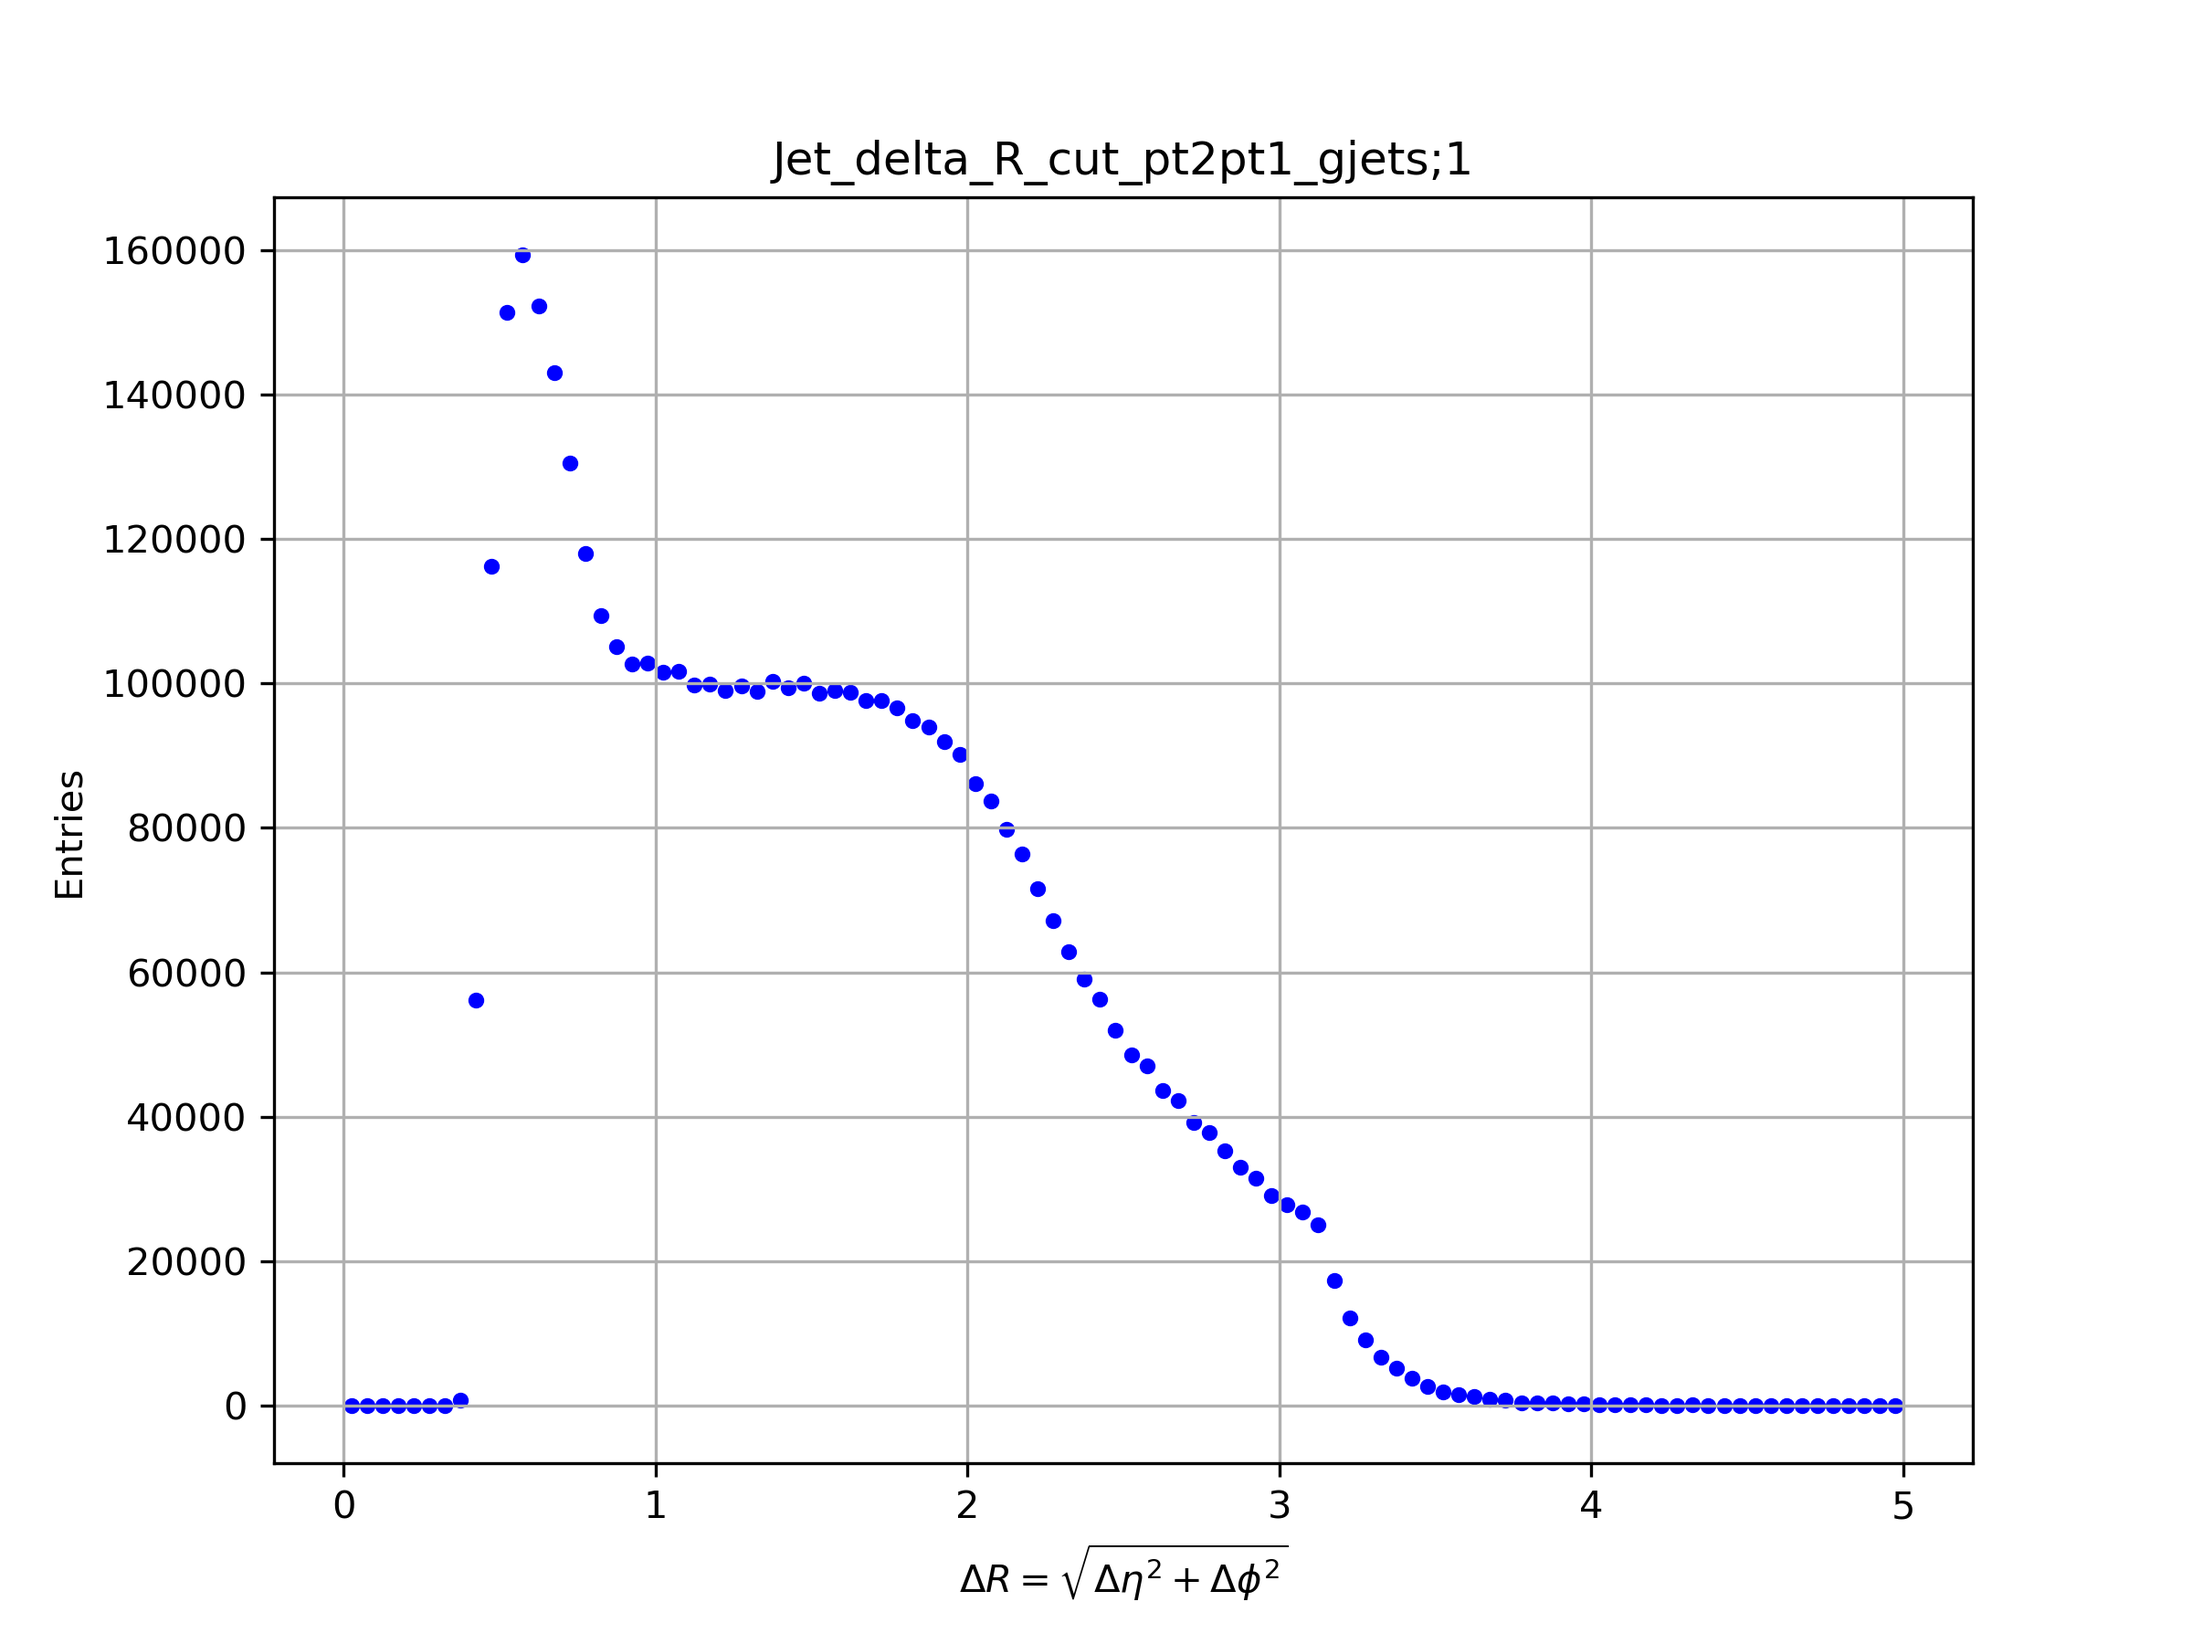
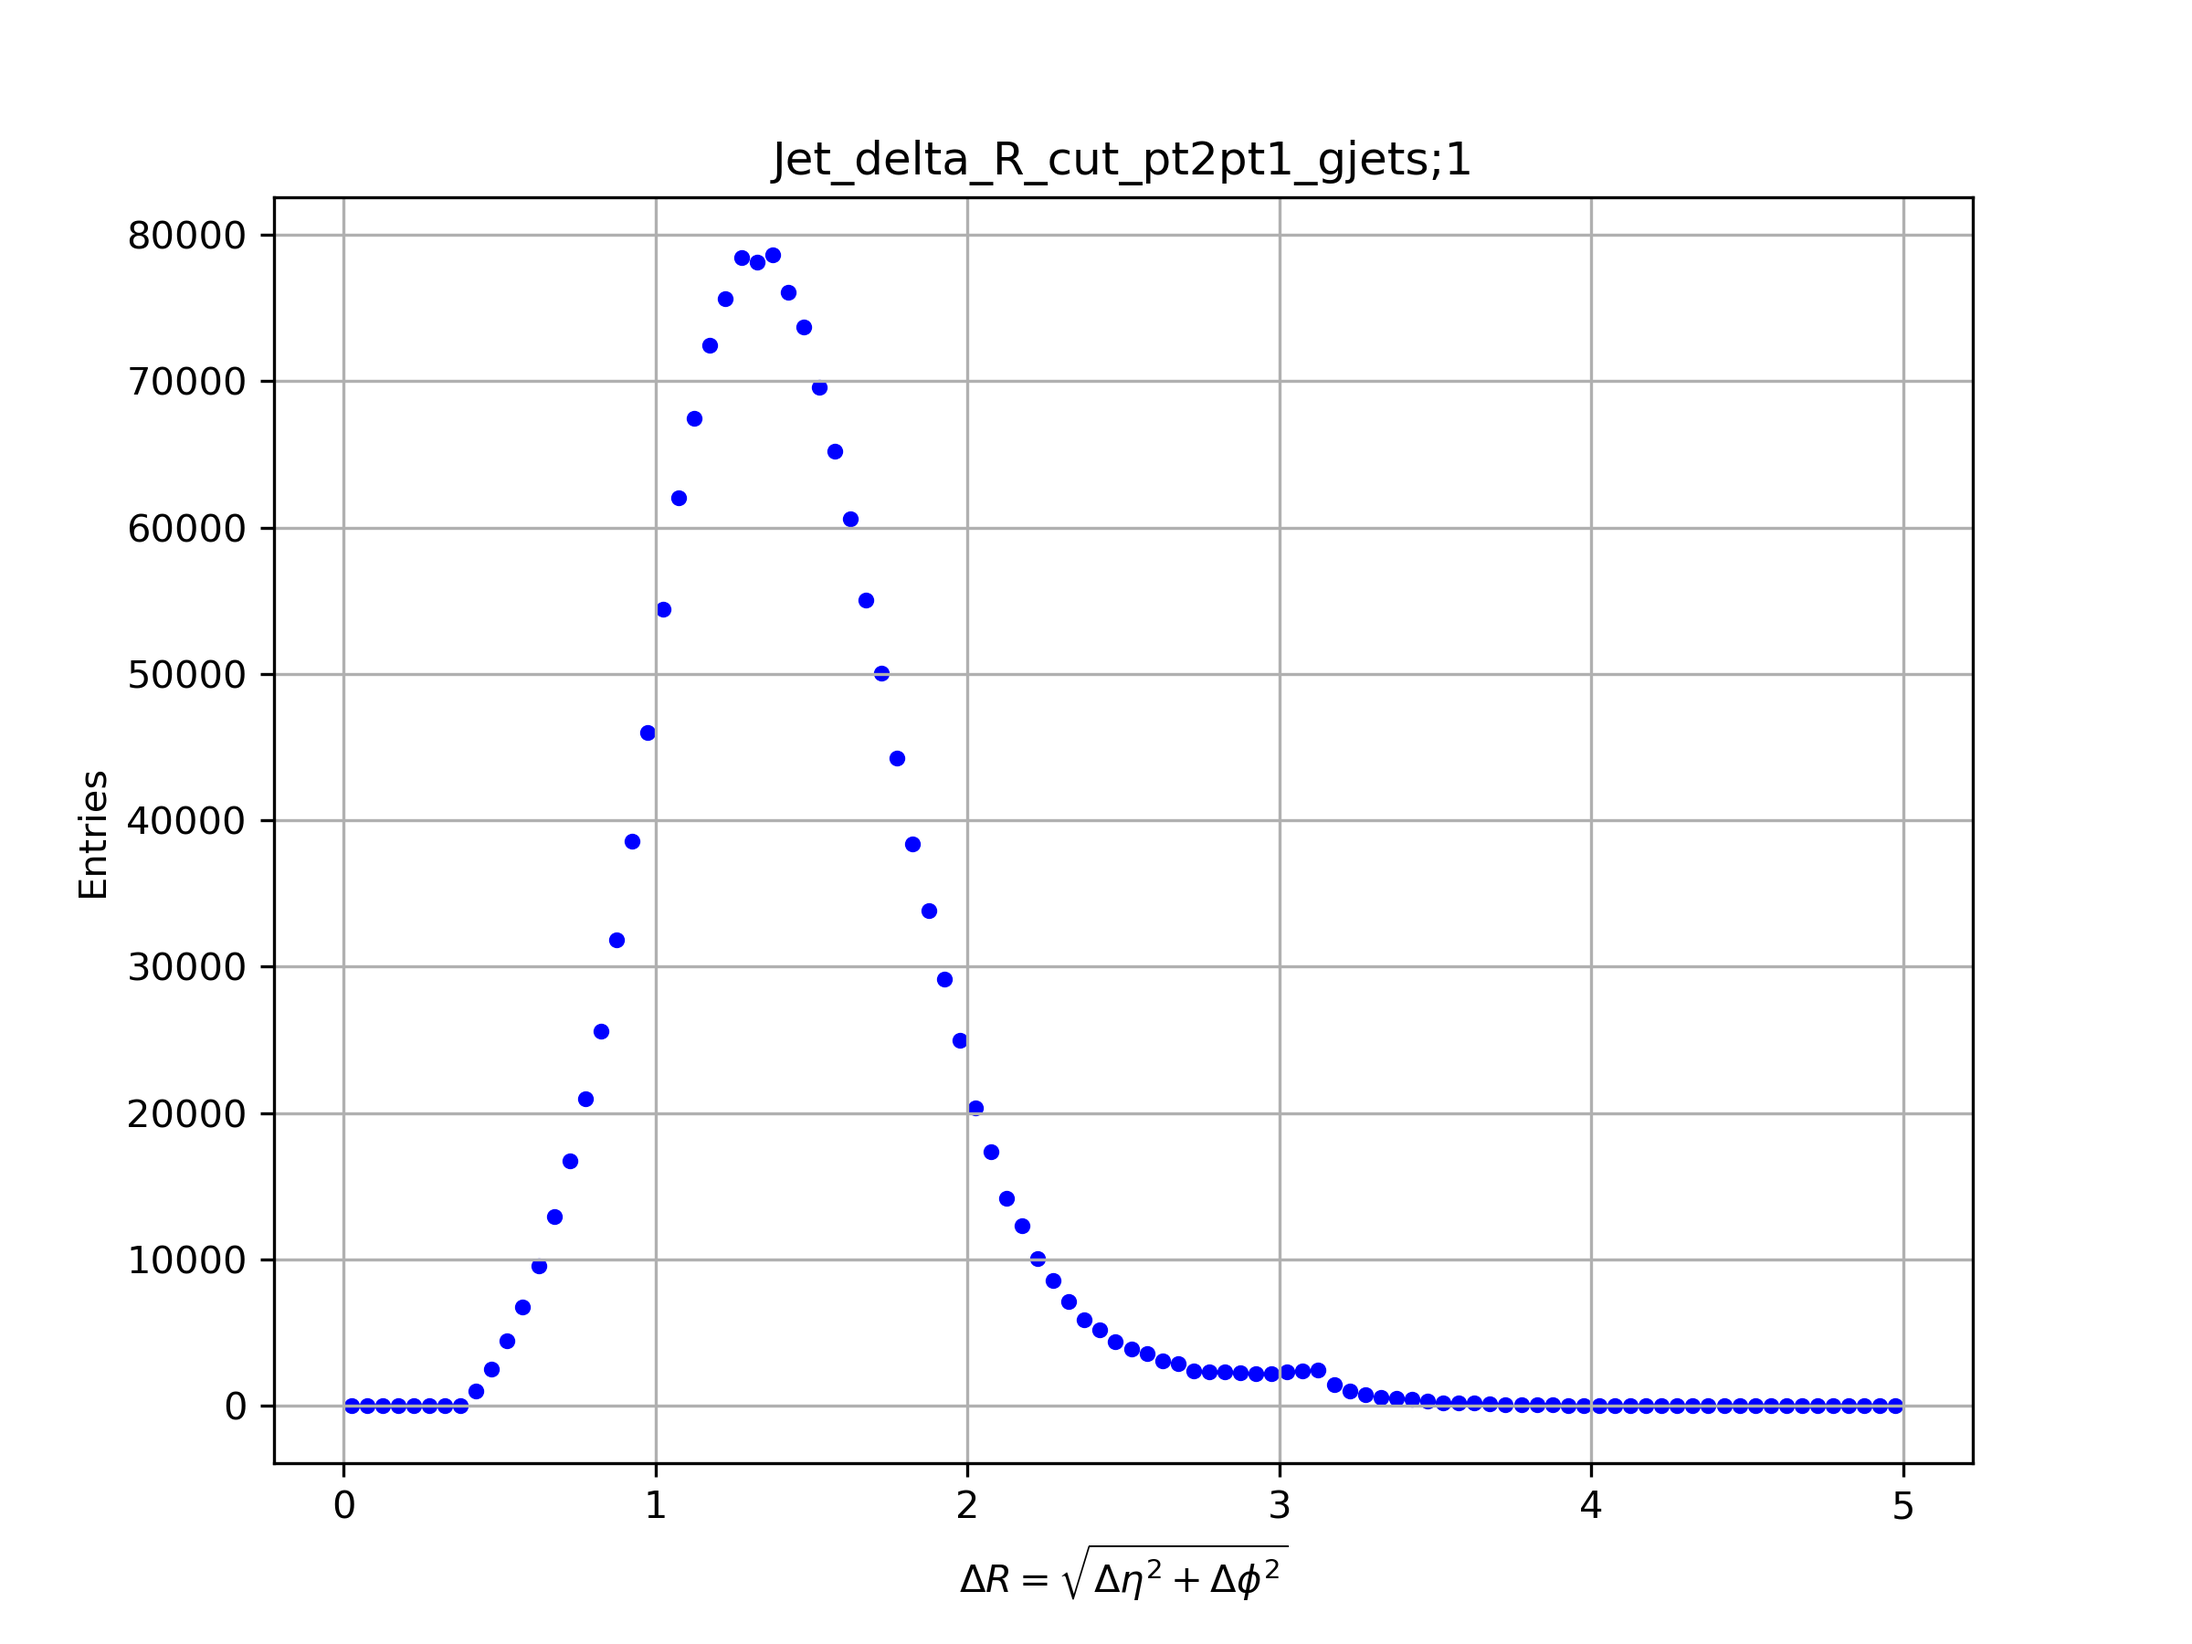
Added cumulative cuts handling and btagPNetB analysis

diff --git a/helpers/helper_gammaztobb.py b/helpers/helper_gammaztobb.py
@@ -26,7 +26,7 @@ variables = {
     }
 cut_conditions = {
         'pt2pt1': 'Jet_pT2pT1 > 0.02',
-        'Delta_R': 'Jet_delta_R < 3.95'
+        'Delta_R': 'Jet_delta_R < 3.952'
 }
 
 def plot_jet_kinematics_by_flavour(df, histos, label_suffix=''):
@@ -49,17 +49,33 @@ def plot_jet_kinematics_by_flavour(df, histos, label_suffix=''):
     
     return df
 
-def cut_fill_histos(df, condition_expr,label):
+def cut_fill_histos(df,cut_expr,label):
+        '''
+        Applies a sequence of cuts cumulatively and fills histograms after each steps.
+
+        Parameters:
+- df:                   ROOT RDataFrame
+- cut_sequence:         list of tuples (cut_label,cut_expr)
+- histos:               Dict where histograms are stored
+
+        returns:
+- df:                   Latest filtered ROOT RDataFrame
+- histos:               Updated with cumulative histograms
+
+        '''
         histos_cut = {}
-        df_cut = df.Filter(condition_expr,label)
+        df_cut = df.Filter(cut_expr,label)
 
         # Inclusive mjj
-        histos_cut[f'mjj_cut_{label}'] = df_cut.Histo1D(ROOT.RDF.TH1DModel(f'mjj_cut_{label}', '', 1000, 0, 1000), 'Mjj', 'LHEWeight_originalXWGTUP')
+        histos_cut[f'mjj_cut_{label}'] = df_cut.Histo1D(
+            ROOT.RDF.TH1DModel(f'mjj_cut_{label}', '', 1000, 0, 1000),
+                'Mjj',
+                'LHEWeight_originalXWGTUP'
+        )
 
         # Flavour-filtered mjj
         for k in range(1,6):
-           flav_label = f'PartonFlavour_{k}_cut_{label}'
-           histos_cut[f'mjj_{flav_label}'] = df_cut.Filter(f'Sum(Jet_TightID_Pt30_Central_PartonFlavour{k})==2').Histo1D(ROOT.RDF.TH1DModel(f'mjj_{flav_label}', '', 1000, 0, 1000), 'Mjj', 'LHEWeight_originalXWGTUP')
+           histos_cut[f'mjj_PartonFlavour_{k}_cut_{label}'] = df_cut.Filter(f'Sum(Jet_TightID_Pt30_Central_PartonFlavour{k})==2').Histo1D(ROOT.RDF.TH1DModel(f'mjj_PartonFlavour_{k}_cut_{label}', '', 1000, 0, 1000), 'Mjj', 'LHEWeight_originalXWGTUP')
 
         # Inclusive Kinematic histograms
         for varname,(nbins,xmin,xmax) in variables.items():
@@ -72,6 +88,55 @@ def cut_fill_histos(df, condition_expr,label):
                histos_cut[f'{varname}_PartonFlavour{k}_cut_{label}'] = flav_df_cut.Histo1D(ROOT.RDF.TH1DModel(f'{varname}_PartonFlavour{k}_cut_{label}','',nbins,xmin,xmax),varname,'LHEWeight_originalXWGTUP')
 
         return histos_cut
+
+def apply_cumulative_cuts(df, cut_conditions, histos):
+    """
+    Applies a sequence of cuts cumulatively using cut_fill_histos.
+
+    Parameters:
+    - df: ROOT RDataFrame
+    - cut_conditions: dict of {label: condition_expr} in the order of application
+    - histos: histogram dictionary to be filled cumulatively
+
+    Returns:
+    - df: final filtered dataframe
+    - histos: updated histogram dictionary
+    """
+    df_cut = df
+    cumulative_labels = []
+
+    for cut_label, cut_expr in cut_conditions.items():
+        cumulative_labels.append(cut_label)
+        label = "_".join(cumulative_labels)
+        new_histos = cut_fill_histos(df_cut, cut_expr, label)
+        histos.update(new_histos)
+        df_cut = df_cut.Filter(cut_expr, cut_label)
+
+    return df_cut, histos
+
+
+def fill_btagPNetB(df, histos):
+	"""
+	Fill inclusive and per-flavour histograms for Jet_btagPNetB of the two selected jets
+	"""
+
+	# Define Jet_btagPNetB values for the two selected jets
+	df = df.Define("Jet_TightID_Pt30_Central_btagPNetB",'Jet_btagPNetB[Jet_TightID_Pt30_Central]')
+	df = df.Define("Jet_btagPNetB_1","Jet_TightID_Pt30_Central_btagPNetB[0]")
+	df = df.Define("Jet_btagPNetB_2","Jet_TightID_Pt30_Central_btagPNetB[1]")
+
+	histos["Jet_btagPNetB_1"] = df.Histo1D(ROOT.RDF.TH1DModel("Jet_btagPNetB_1",'',1000,0,1),"Jet_btagPNetB_1","LHEWeight_originalXWGTUP")
+	histos["Jet_btagPNetB_2"] = df.Histo1D(ROOT.RDF.TH1DModel("Jet_btagPNetB_2",'',1000,0,1),"Jet_btagPNetB_2","LHEWeight_originalXWGTUP")
+	histos["Jet_btagPNetB"] = df.Histo1D(ROOT.RDF.TH1DModel("Jet_btagPNetB", "", 1000, 0, 1),"Jet_TightID_Pt30_Central_btagPNetB","LHEWeight_originalXWGTUP")
+
+	for k in range(1,6):
+		filter_expression = f'Sum(Jet_TightID_Pt30_Central_PartonFlavour{k})==2'
+		flav_df = df.Filter(filter_expression)
+		histos[f"Jet_btagPNetB_PartonFlavour{k}_1"] = flav_df.Histo1D(ROOT.RDF.TH1DModel(f"Jet_btagPNetB_PartonFlavour{k}_1", "", 1000, 0, 1), "Jet_btagPNetB_1", "LHEWeight_originalXWGTUP")
+		histos[f"Jet_btagPNetB_PartonFlavour{k}_2"] = flav_df.Histo1D(ROOT.RDF.TH1DModel(f"Jet_btagPNetB_PartonFlavour{k}_2","",1000,0,1),"Jet_btagPNetB_2","LHEWeight_originalXWGTUP")
+		histos[f"Jet_btagPNetB_PartonFlavour{k}"] = flav_df.Histo1D(ROOT.RDF.TH1DModel(f"Jet_btagPNetB_PartonFlavour{k}",'',1000,0,1),"Jet_TightID_Pt30_Central_btagPNetB","LHEWeight_originalXWGTUP")
+
+	return df, histos
 
 def GammaZSelection(df, year=2023, era='C', isData=False):
     '''
@@ -139,32 +204,27 @@ def GammaZSelection(df, year=2023, era='C', isData=False):
     df = df.Filter('Sum(Jet_TightID_Pt30)==2&&Sum(Jet_TightID_Pt30_Central)==2','=2 central jets with pt>30 GeV, no additional jet')
     histos['photon_pt_2jselection'] = df.Histo1D(ROOT.RDF.TH1DModel('photon_pt_2jselection', '', 1000, 0, 1000), 'Photon_LooseID_Pt20_pt', 'LHEWeight_originalXWGTUP')
 
-    #Compute the dijet invariant mass and remove invariant mass mjj outside range of study
-    df = df.Define('Mjj_Before_Deltas', 'InvariantMass(Jet_TightID_Pt30_Central_Pt[0], Jet_TightID_Pt30_Central_Eta[0], Jet_TightID_Pt30_Central_Phi[0], Jet_TightID_Pt30_Central_Mass[0], Jet_TightID_Pt30_Central_Pt[1], Jet_TightID_Pt30_Central_Eta[1], Jet_TightID_Pt30_Central_Phi[1], Jet_TightID_Pt30_Central_Mass[1])')
-    df = df.Filter('Mjj_Before_Deltas < 200','Invariant mass clearly outside the range of this study')    
+    #Compute the dijet invariant mass and remove invariant mass mjj outside baseline
+    df = df.Define('Mjj', 'InvariantMass(Jet_TightID_Pt30_Central_Pt[0], Jet_TightID_Pt30_Central_Eta[0], Jet_TightID_Pt30_Central_Phi[0], Jet_TightID_Pt30_Central_Mass[0], Jet_TightID_Pt30_Central_Pt[1], Jet_TightID_Pt30_Central_Eta[1], Jet_TightID_Pt30_Central_Phi[1], Jet_TightID_Pt30_Central_Mass[1])')
+    df = df.Filter('Mjj < 200 && Mjj > 40','Invariant mass clearly outside the range of this study')    
     
     # --- Define key kinematic variables to study their behaviors ---
     # Delta eta
     df = df.Define('Jet_delta_eta','abs(Jet_TightID_Pt30_Central_Eta[0]-Jet_TightID_Pt30_Central_Eta[1])')
-    histos['Jet_delta_eta'] = df.Histo1D(ROOT.RDF.TH1DModel('Jet_delta_eta','',100,0,5), 'Jet_delta_eta','LHEWeight_originalXWGTUP')
 
     # Delta phi
     df = df.Define('Jet_delta_phi','abs(acos(cos(Jet_TightID_Pt30_Central_Phi[0]-Jet_TightID_Pt30_Central_Phi[1])))')
-    histos['Jet_delta_phi'] = df.Histo1D(ROOT.RDF.TH1DModel('Jet_delta_phi','',100,0,5), 'Jet_delta_phi','LHEWeight_originalXWGTUP')
 
     # Delta pT
     df = df.Define('Jet_pt1','Jet_TightID_Pt30_Central_Pt[0]')
     df = df.Define('Jet_pt2','Jet_TightID_Pt30_Central_Pt[1]')
     df = df.Define('Jet_delta_pT','abs(Jet_pt1-Jet_pt2)')
-    histos['Jet_delta_pT'] = df.Histo1D(ROOT.RDF.TH1DModel('Jet_delta_pT','',1000,0,1000), 'Jet_delta_pT', 'LHEWeight_originalXWGTUP')
 
     # pT1/pT2
     df = df.Define('Jet_pT2pT1','Ratio_pt(Jet_pt1,Jet_pt2)')
-    histos ['Jet_pT2pT1'] = df.Histo1D(ROOT.RDF.TH1DModel('Jet_pT2pT1','',100,0,1),'Jet_pT2pT1','LHEWeight_originalXWGTUP')
 
     # Angular distance R
     df = df.Define('Jet_delta_R','sqrt(pow(Jet_delta_eta,2) + pow(Jet_delta_phi,2))')
-    histos['Jet_delta_R'] = df.Histo1D(ROOT.RDF.TH1DModel('Jet_delta_R','',100,0,5),'Jet_delta_R','LHEWeight_originalXWGTUP')
 
     # Veto Delta R(photon,j) > 0.4 with j = leading and subleading jet
     df = df.Define('PJet_Delta_eta','abs(Photon_TightID_Pt100_eta[0]-Jet_TightID_Pt30_Central_Eta[0])') # Delta eta leading jet and photon
@@ -176,32 +236,40 @@ def GammaZSelection(df, year=2023, era='C', isData=False):
     df = df.Define('PSubJet_Delta_R','sqrt(pow(PSubJet_Delta_eta,2) + pow(PSubJet_Delta_phi,2))') # Delta R subleading jet and photon
 
     df = df.Filter('PJet_Delta_R > 0.4 && PSubJet_Delta_R > 0.4',f'Angular distance between the photon and both jets is > 0.4')
-    
+
+    # Selection cut to further select kinematic variables in range of study
+    df_cut = df.Filter('Mjj > 70 && Mjj < 130', 'mjj in range of study')
+    for varname, (nbins, xmin, xmax) in variables.items():
+        hist_name = f'{varname}'
+        histos[hist_name] = df_cut.Histo1D(ROOT.RDF.TH1DModel(hist_name,'',nbins,xmin,xmax),varname,'LHEWeight_originalXWGTUP')
+    histos['Jet_delta_phi_vs_delta_eta'] = df_cut.Histo2D(ROOT.RDF.TH2DModel('Jet_delta_phi_vs_delta_eta','',100,0,5,100,0,5),'Jet_delta_phi','Jet_delta_eta','LHEWeight_originalXWGTUP')
+
+    df, histos = fill_btagPNetB(df_cut, histos)
+
+ 
     # Plot these variables in histograms
     
-    for k in range(1,6):
-        # Create a filtered datafrom for each flavour
-        flav_var = f'Jet_TightID_Pt30_Central_PartonFlavour{k}'
-        df_flav = df.Filter(f'Sum({flav_var})==2',f'Both jets have flavour {k}')
-        # Loop over each variable
-        for varname, (nbins,xmin,xmax) in variables.items():
-            hist_name = f'{varname}_PartonFlavour{k}'
-            histos[hist_name] = df_flav.Histo1D(ROOT.RDF.TH1DModel(hist_name,'',nbins,xmin,xmax),varname,'LHEWeight_originalXWGTUP')
-
-    #Compute the dijet invariant mass 
-    df = df.Define('Mjj', 'InvariantMass(Jet_TightID_Pt30_Central_Pt[0], Jet_TightID_Pt30_Central_Eta[0], Jet_TightID_Pt30_Central_Phi[0], Jet_TightID_Pt30_Central_Mass[0], Jet_TightID_Pt30_Central_Pt[1], Jet_TightID_Pt30_Central_Eta[1], Jet_TightID_Pt30_Central_Phi[1], Jet_TightID_Pt30_Central_Mass[1])')
-    
-    histos['mjj'] = df.Histo1D(ROOT.RDF.TH1DModel('mjj', '', 1000, 0, 1000), 'Mjj', 'LHEWeight_originalXWGTUP')
+#    for k in range(1,6):
+#        # Create a filtered datafrom for each flavour
+#        flav_var = f'Jet_TightID_Pt30_Central_PartonFlavour{k}'
+#        df_flav = df_cut.Filter(f'Sum({flav_var})==2',f'Both jets have flavour {k}')
+#        # Loop over each variable
+#        for varname, (nbins,xmin,xmax) in variables.items():
+#            hist_name = f'{varname}_PartonFlavour{k}'
+#            histos[hist_name] = df_flav.Histo1D(ROOT.RDF.TH1DModel(hist_name,'',nbins,xmin,xmax),varname,'LHEWeight_originalXWGTUP')
+    #Compute the dijet invariant mass  
+    histos['Mjj'] = df.Histo1D(ROOT.RDF.TH1DModel('mjj', '', 1000, 0, 1000), 'Mjj', 'LHEWeight_originalXWGTUP')
     for k in range(1,7):
         histos[f'mjj_partonflavour{k}'] = df.Filter(f'Sum(Jet_TightID_Pt30_Central_PartonFlavour{k})==2').Histo1D(ROOT.RDF.TH1DModel(f'mjj_partonflavour{k}','',1000,0,1000),'Mjj','LHEWeight_originalXWGTUP')
 
     # Compute and add histograms for the different cuts 
+    df, histos = apply_cumulative_cuts(df, cut_conditions, histos)  
     for label,condition in cut_conditions.items():
         extra_histos = cut_fill_histos(df, condition,label)
         histos.update(extra_histos)
 
     df = plot_jet_kinematics_by_flavour(df, histos)
-    
+ 
     # Count the number of events per flavour
     n1 = histos['mjj_partonflavour1'].Integral(60, 120)
     n2 = histos['mjj_partonflavour2'].Integral(60, 120)

diff --git a/macros/Deltas/ROC/roc.py b/macros/Deltas/ROC/roc.py
@@ -22,12 +22,14 @@ variables = {
 
 cuts = {
     'nocut': '',
-    'pt2pt1': '_cut_pt2pt1'
+    'pt2pt1': '_cut_pt2pt1',
+    'Delta_R': '_cut_pt2pt1_Delta_R'
 }
 
 cut_labels = {
     'nocut': 'No cut',
-    'pt2pt1': r'$p_{T2}/p_{T1} > 0.02$'
+    'pt2pt1': r'$p_{T2}/p_{T1} > 0.02$',
+    'Delta_R': r'$\Delta R < 3.95$'
 }
 
 # --- Stock global curves ---
@@ -59,6 +61,7 @@ def plot_roc(FPR,TPR,labels,title,outpath,auc=None):
         plt.grid(True)
         plt.tight_layout()
         os.makedirs(os.path.dirname(outpath),exist_ok=True)
+        plt.grid(True, linestyle='--', alpha=0.5)
         plt.savefig(outpath,dpi=300)
         plt.close()
 

diff --git a/macros/Deltas/Deltas.py b/macros/Deltas/Deltas.py
@@ -1,6 +1,8 @@
 import ROOT
 #from array import array
 import numpy as np
+import matplotlib
+matplotlib.use("Agg")  # Use non-interactive backend (no display needed)
 import matplotlib.pyplot as plt
 from scipy.stats import chi2 as chi2_stats
 import csv
